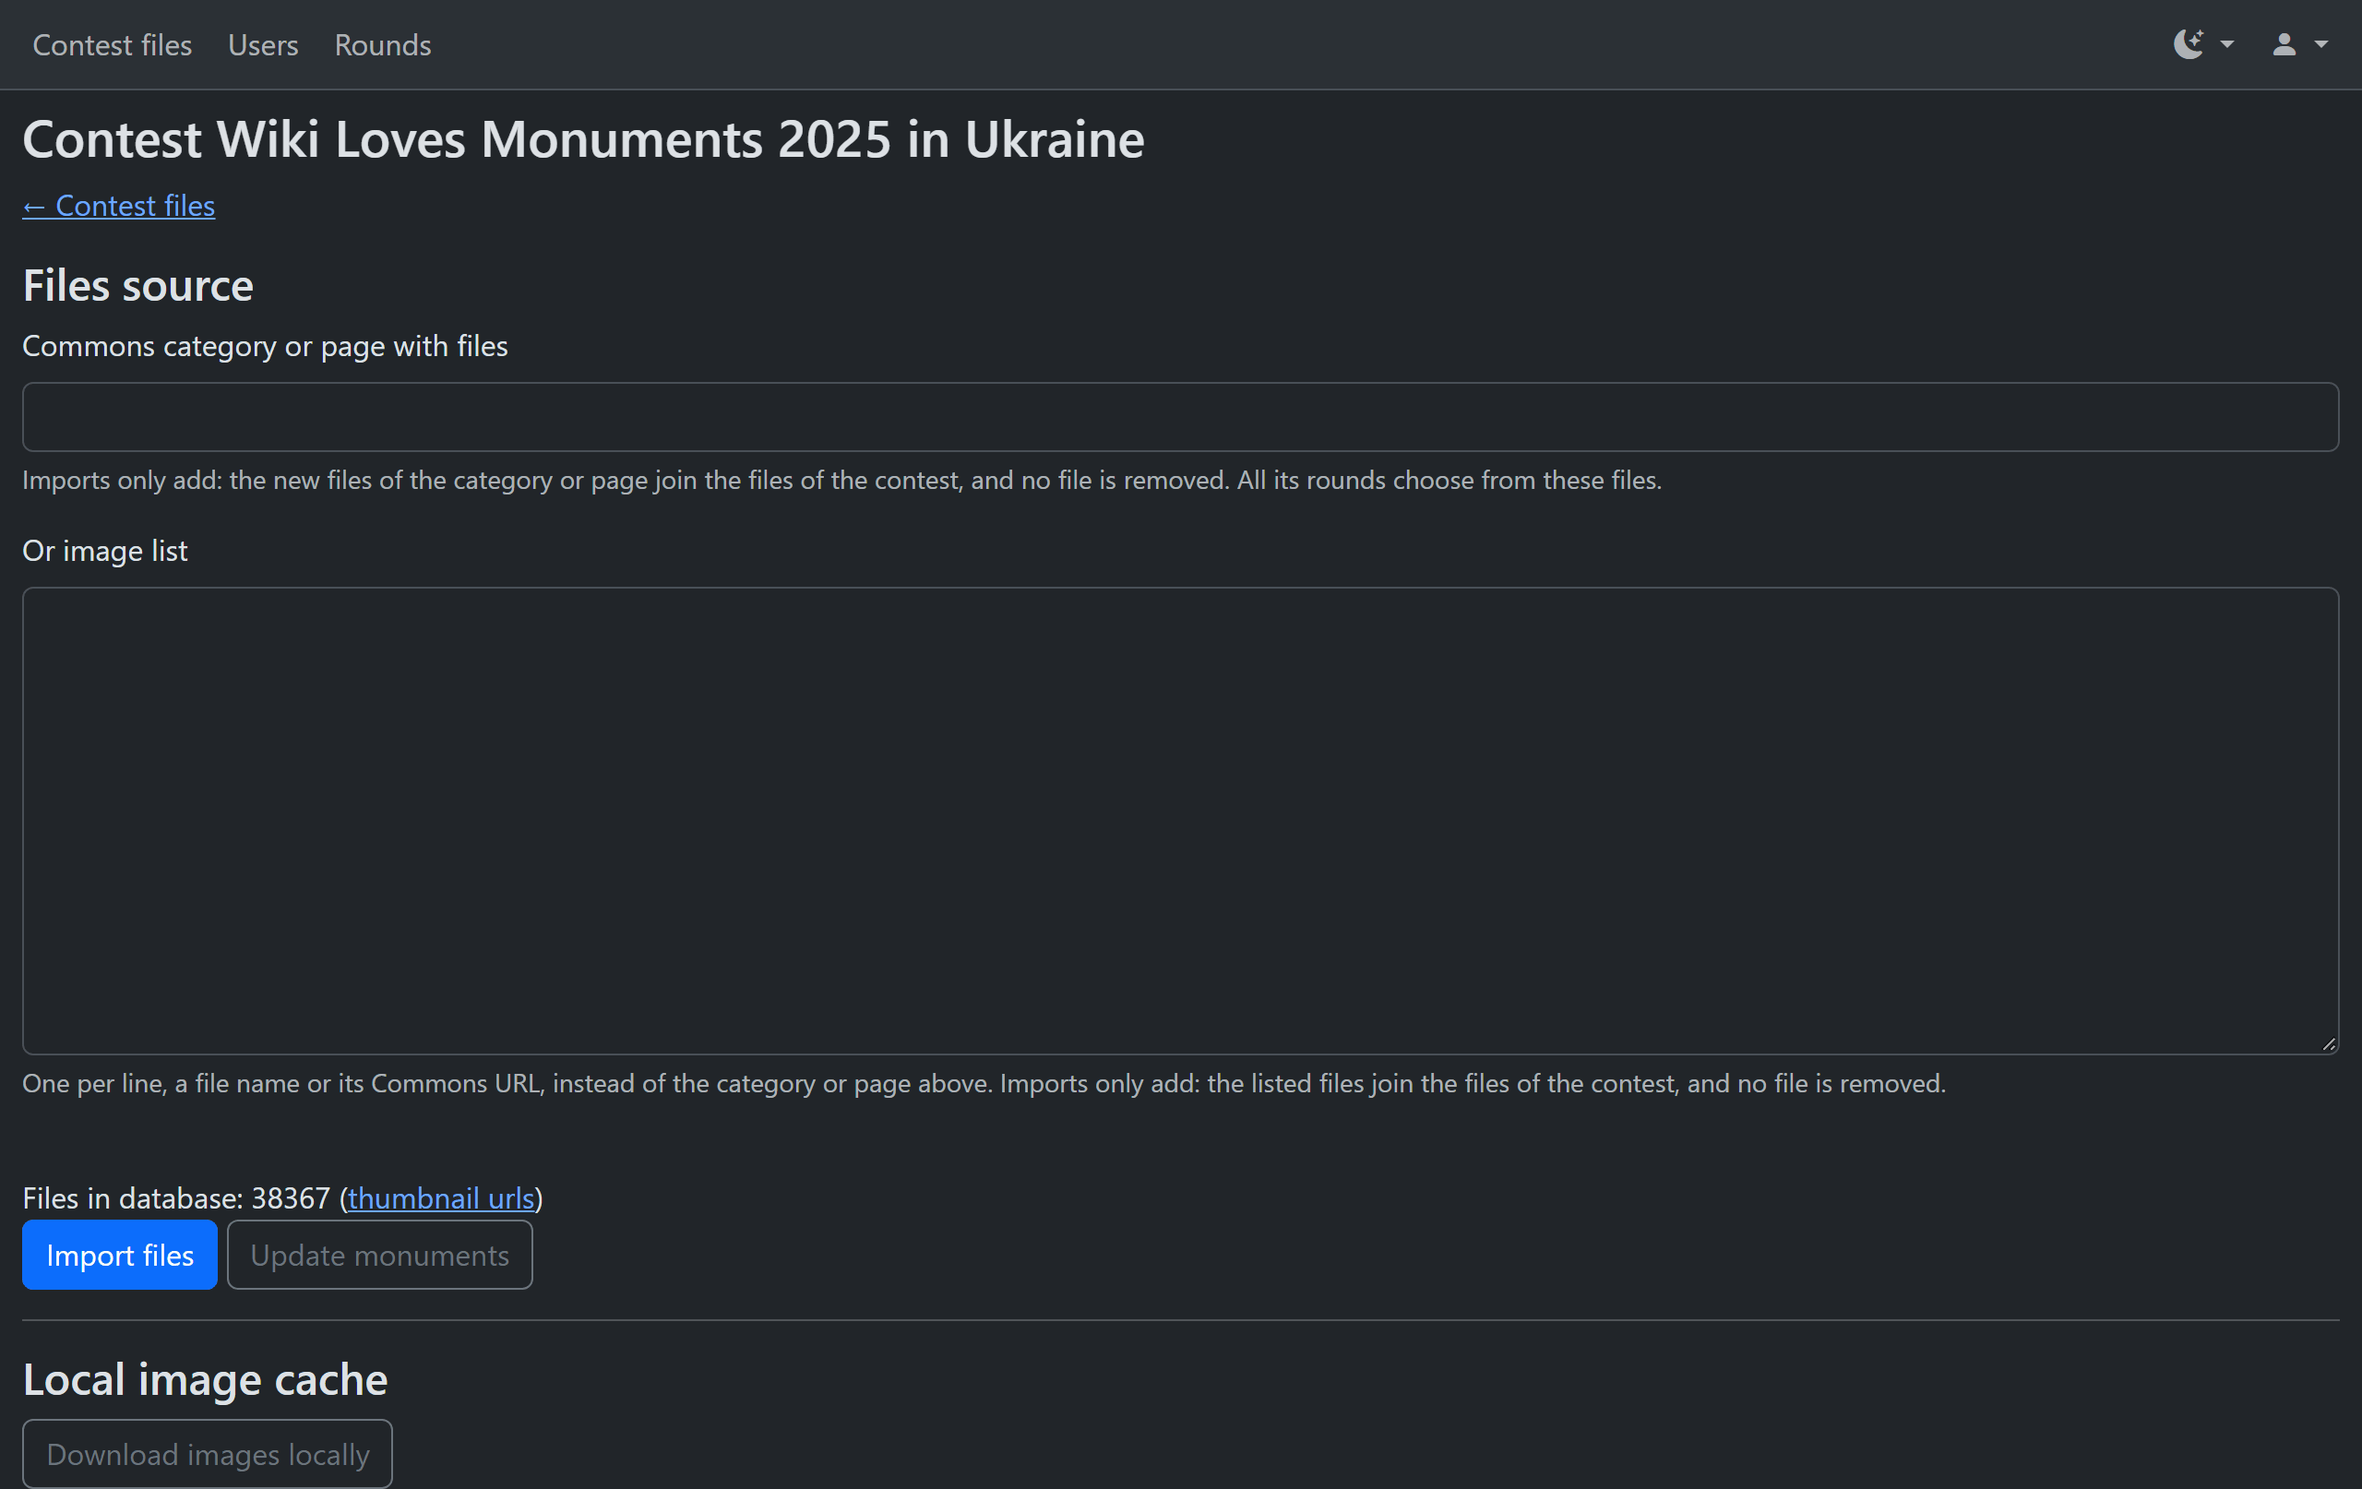
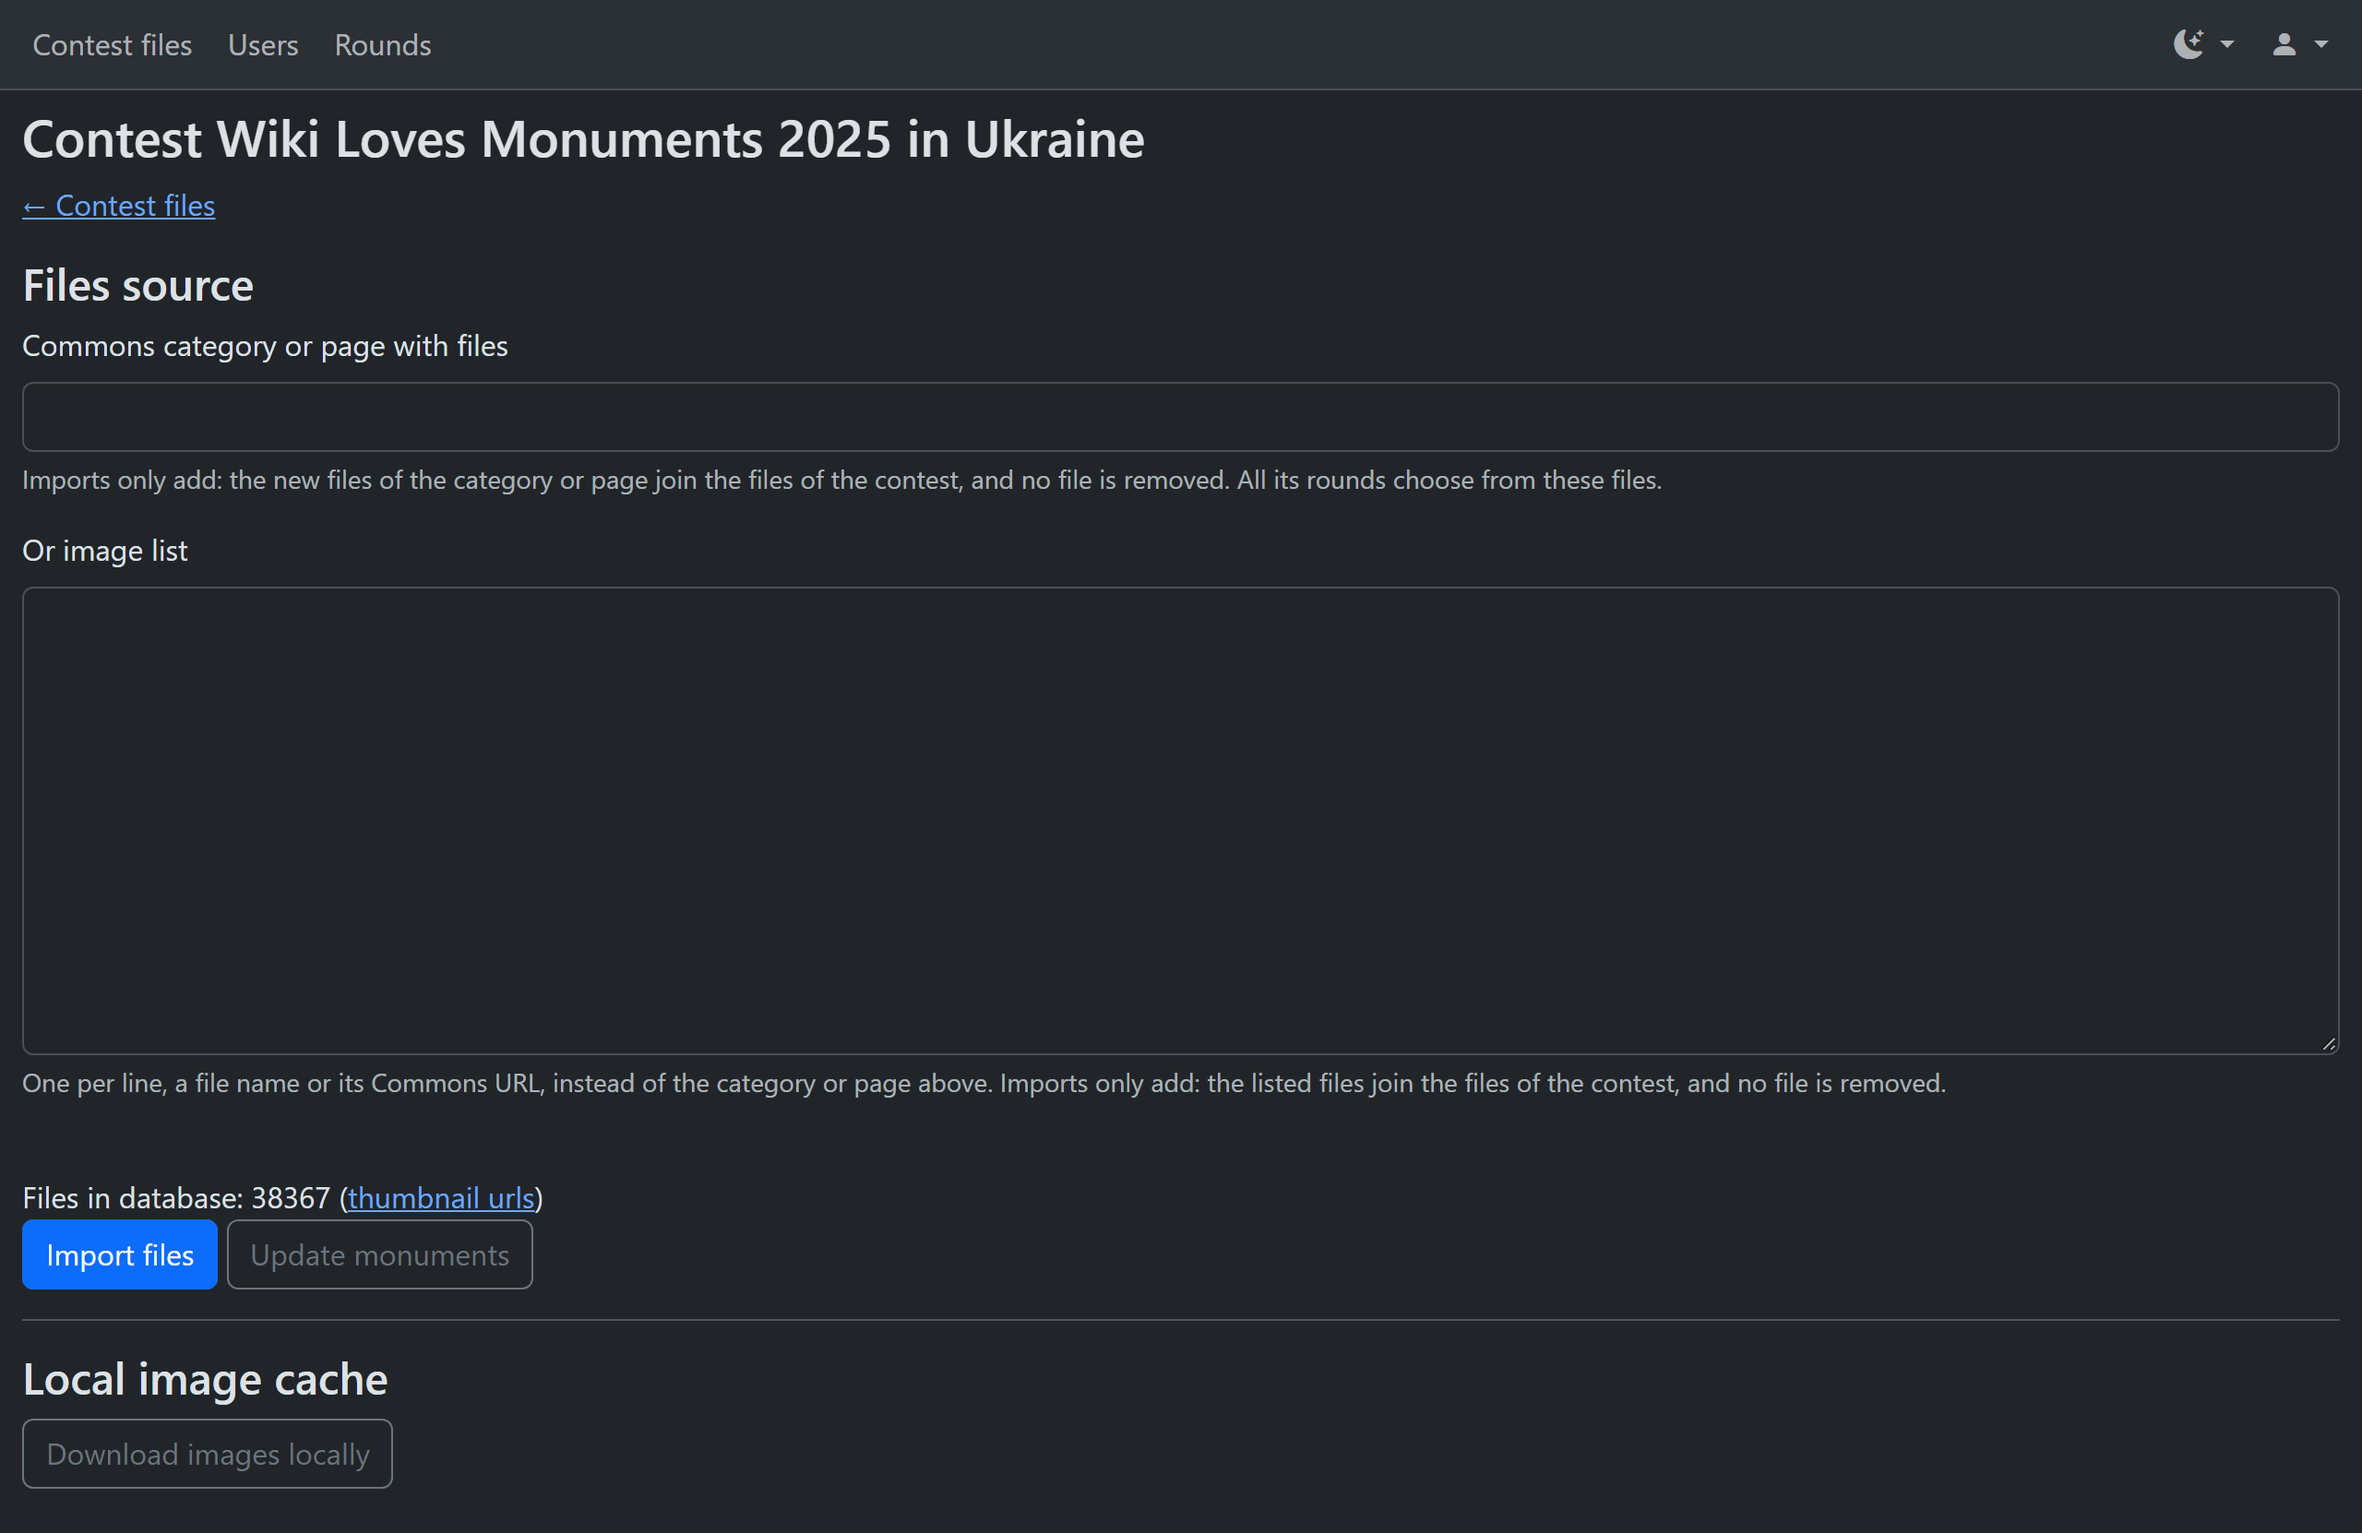
Docs: restore top-N and conflicts text pending the UI fix; retake shots with whole elements

diff --git a/browser-test/tests/docs-screenshots.spec.js b/browser-test/tests/docs-screenshots.spec.js
@@ -97,7 +97,7 @@ test.describe('the guides\' screenshots', () => {
     return Math.ceil(row.bottom + window.scrollY) + 2;
   }, n);
 
-  async function shot(contextAs, role, target, name, { full = false, prepare, crop, height, width, rows, tableRows } = {}) {
+  async function shot(contextAs, role, target, name, { full = false, prepare, crop, extra = 0, height, width, rows, tableRows } = {}) {
     const context = await contextAs(role);
     await context.addCookies([{ name: 'theme', value: 'dark', url: baseUrl }]);
     const page = await sized(context);
@@ -113,7 +113,7 @@ test.describe('the guides\' screenshots', () => {
       const box = await page.locator(crop).first().boundingBox();
       const x = Math.max(0, box.x - 12);
       await page.screenshot({ path: file, fullPage: true,
-        clip: { x, y: Math.max(0, box.y - 12), width: Math.min(VIEWPORT.width - x, box.width + 24), height: box.height + 24 } });
+        clip: { x, y: Math.max(0, box.y - 12), width: Math.min(VIEWPORT.width - x, box.width + 24), height: box.height + 24 + extra } });
     } else if (rows) await top(page, file, await belowRows(page, rows), width);
     else if (tableRows) await top(page, file, await belowTableRow(page, tableRows), width);
     else if (height) await top(page, file, height, width);
@@ -148,11 +148,13 @@ test.describe('the guides\' screenshots', () => {
     await shot(contextAs, 'admin', `/admin/rounds?contestId=${contest}`, 'organizer-rounds-list', { height: 460 });
     await shot(contextAs, 'admin', `/admin/rounds/edit?contestId=${contest}`, 'organizer-new-round-form', {
       crop: '#round-form', // the form only (about 800 CSS pixels wide)
+      extra: 135, // down to the end of the Save and Cancel buttons, which are below the form's box
       // the form's collapsed sections, opened
       prepare: async (page) => {
         for (const name of ['Media filtering', 'Add files']) {
           await page.getByRole('button', { name }).or(page.getByRole('link', { name })).first().click();
         }
+        await page.waitForTimeout(1000); // the sections' opening animation, before the form is measured
       },
     });
     await shot(contextAs, 'admin', `/contest/${contest}/images`, 'organizer-contest-images', { full: true });
@@ -228,7 +230,7 @@ test.describe('the guides\' screenshots', () => {
     const from = await select.boundingBox();
     const to = await warning.boundingBox();
     await page.screenshot({ path: path.join(OUT_DIR, 'organizer-score-rule-warning.png'), fullPage: true,
-      clip: { x: 0, y: from.y - 80, width: VIEWPORT.width, height: to.y + to.height - from.y + 120 } });
+      clip: { x: 0, y: from.y - 80, width: VIEWPORT.width, height: to.y + to.height - from.y + 215 } });
     await context.close(); // not saved
   });
 

diff --git a/docs/user/organizer-guide.md b/docs/user/organizer-guide.md
@@ -128,6 +128,10 @@ A round for all the files takes no filters at all.
   [file score](#o-score-rule): with the total of the rates it is a total, and for a round with
   criteria it is the sum of the criteria's rates, averaged over the jurors. The hint under the
   field says which applies.
+- **Number of top files from the previous rounds**: take only the best N files. After the
+  other filters, the files are ordered by the earlier round's score, and N are taken. For an
+  earlier yes/no round the field **Top files of a yes/no round by** chooses the order:
+  **Approvals, then fewest rejections** or **Approvals minus rejections**.
 - The **rejection filter**: take or drop files by how many jurors rejected them in the earlier
   rounds. See the next section.
 
@@ -236,8 +240,8 @@ interest of this round**, and, where the tool's operators have set up a local im
 ### The file score
 
 The **File score** option decides how a rated round gives a file its score. The score is shown
-in the results and ranks the files, and a next round's minimum score uses it. The three rules
-are:
+in the results and ranks the files, and a next round's top files and minimum score use it. The
+three rules are:
 
 - **Average over the jurors who rated it**, the default: the file's rates added up and divided
   by the number of jurors who rated it.
@@ -255,7 +259,7 @@ the round has votes and you pick another rule. The warning says that:
 
 - the results are re-scored and re-ordered everywhere, at once;
 - a distribution that is already queued or running keeps the rule it started with;
-- the later rounds that took their minimum score from this round are named. Their
+- the later rounds that took their top files or minimum score from this round are named. Their
   files don't change, but a later **Distribute new files** there uses the new rule.
 
 <img src="images/organizer-score-rule-warning.png" alt="The file score option and its warning" width="1280">
@@ -412,8 +416,8 @@ contest's files, and of the round's files, are conflicts.
 <a id="o-conflicts-page"></a>
 ### The conflicts page
 
-Admins open the page **Conflicts of interest of round …** with the button **Conflicts of
-interest of this round** on the round form (organizers have no button for it). It has:
+Press **Conflicts of interest of this round** on the round form, to open the page **Conflicts of
+interest of round …**. Admins and organizers can open it. It has:
 
 - **Conflicts of interest in the round**: the files whose author is a conflicted member now,
   each with its author and reason.

diff --git a/docs/user/whats-new-26.11.md b/docs/user/whats-new-26.11.md
@@ -43,9 +43,10 @@ of the guide that explains it. Changes that only developers or operators see are
   See [The file score](organizer-guide.md#o-score-rule).
 - **Criteria rounds' results:** each criterion's average in the file list, the by-rate gallery,
   the CSV and the large view. See [The file list](organizer-guide.md#o-file-list).
-- **Yes/no rounds:** the all-jurors view shows each file's approvals, and a next round can take
-  files **Selected by at least X jurors**. See [The by-rate gallery](organizer-guide.md#o-by-rate)
-  and [Choosing the round's files](organizer-guide.md#o-choose-files).
+- **Yes/no rounds:** the all-jurors view shows each file's approvals, you can choose the
+  order **Approvals, then fewest rejections**, and a next round can take files **Selected by at
+  least X jurors**. See [The by-rate gallery](organizer-guide.md#o-by-rate) and [Choosing the
+  round's files](organizer-guide.md#o-choose-files).
 - **Conflicts of interest page,** with its history, for organizers and admins. See
   [The conflicts page](organizer-guide.md#o-conflicts-page).
 
